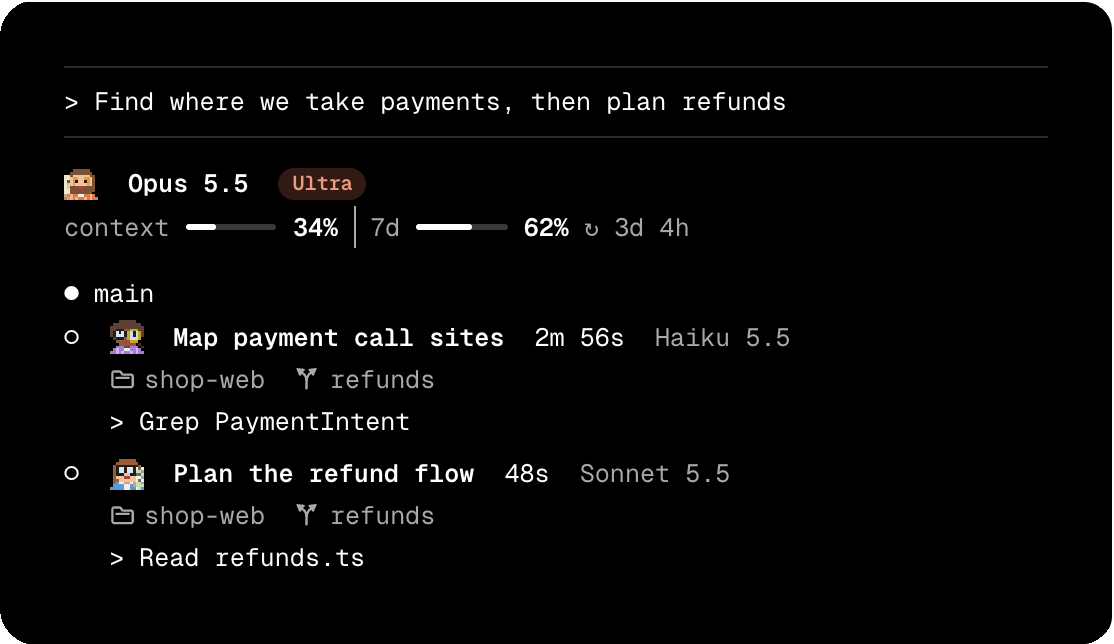
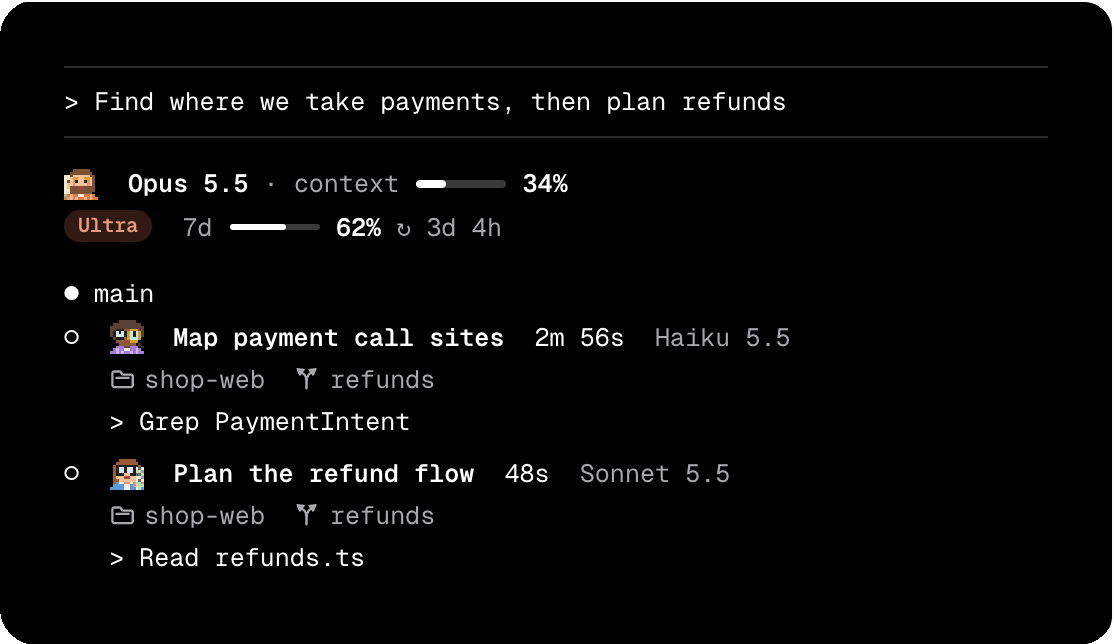
AgentValley 0.3.33

Changed region(s): [[0.061, 0.2484, 0.6104, 0.3727]]

diff --git a/Tests/AgentValleyTests/CrewLineTests.swift b/Tests/AgentValleyTests/CrewLineTests.swift
@@ -17,44 +17,58 @@ final class CrewLineTests: XCTestCase {
         plain(CrewLine.status(input, columns: columns, plan: plan, look: LeadLook(), newFont: newFont, now: now)).components(separatedBy: "\n")
     }
 
+    /// The context meter after the model, with the font's round bar or with lines.
+    func context(_ newFont: Bool) -> String {
+        " · context " + (newFont ? CrewFont.Bar.text(22, cells: 10) : "━━━━━━━━━━") + " 22% 220k/1.0m"
+    }
+
     // With the font, a plan it has a badge for wears it, as in the panel, and the bars have round ends.
     func testTheFontDrawsThePlanBadgeAndRoundBars() {
-        let top = lines(102, plan: "Ultra", newFont: true)
-        XCTAssertEqual(top[0], "\u{3F015}  Opus 5.5  " + CrewFont.Badge.ultra.text)
-        XCTAssertTrue(top[1].hasPrefix("context " + CrewFont.Bar.text(22, cells: 10) + " 22%"), top[1])
-        XCTAssertFalse(top[1].contains("━"))
+        let ultra = lines(102, plan: "Ultra", newFont: true)
+        XCTAssertEqual(ultra[0], "\u{3F015}  Opus 5.5" + context(true))
+        XCTAssertTrue(ultra[1].hasPrefix(CrewFont.Badge.ultra.text + "  5h " + CrewFont.Bar.text(6, cells: 10) + " 6%"), ultra[1])
+        XCTAssertFalse(ultra.joined().contains("━"))
         // A name the font has no badge for stays quiet text.
-        XCTAssertEqual(lines(102, plan: "Max 20x", newFont: true)[0], "\u{3F015}  Opus 5.5 · Max 20x")
+        XCTAssertTrue(lines(102, plan: "Max 20x", newFont: true)[1].hasPrefix("Max 20x  5h "))
+        // With no limits the badge stays on top, after the model.
+        input["rate_limits"] = nil
+        XCTAssertEqual(lines(102, plan: "Ultra", newFont: true), ["\u{3F015}  Opus 5.5  " + CrewFont.Badge.ultra.text + context(true)])
         input["model"] = nil
-        XCTAssertEqual(lines(102, plan: "Pro", newFont: true)[0], "\u{3F015}  " + CrewFont.Badge.pro.text)
-        input["model"] = ["display_name": "Opus 5.5"]
-        for columns in [102, 101, 91, 85, 75] { XCTAssertLessThanOrEqual(CrewLine.width(lines(columns, newFont: true)[1]), columns - 9) }
+        XCTAssertEqual(lines(102, plan: "Pro", newFont: true)[0], "\u{3F015}  " + CrewFont.Badge.pro.text + context(true))
     }
 
-    func testTheTopLineIsTheLeadModelAndPlan() {
+    // On top this session, as its card in the panel; below the plan and its limits, as the status row.
+    func testTheTopLineIsTheSessionAndTheNextThePlan() {
         let lines = lines(102)
-        XCTAssertEqual(lines[0], "\u{3F015}  Opus 5.5 · Max 20x")
-        XCTAssertEqual(lines[1], "context ━━━━━━━━━━ 22% 220k/1.0m  │  5h ━━━━━━━━━━ 6% ↻ 2h 42m  │  7d ━━━━━━━━━━ 70% ↻ 2d 15h")
+        XCTAssertEqual(lines[0], "\u{3F015}  Opus 5.5" + context(false))
+        XCTAssertEqual(lines[1], "Max 20x  5h ━━━━━━━━━━ 6% ↻ 2h 42m  │  7d ━━━━━━━━━━ 70% ↻ 2d 15h")
     }
 
-    func testNoPlanDropsTheDot() {
-        XCTAssertEqual(lines(98, plan: nil)[0], "\u{3F015}  Opus 5.5")
+    func testNoPlanLeavesTheLimits() {
+        XCTAssertEqual(lines(98, plan: nil)[1], "5h ━━━━━━━━━━ 6% ↻ 2h 42m  │  7d ━━━━━━━━━━ 70% ↻ 2d 15h")
     }
 
-    func testNoModelKeepsFaceAndPlan() {
+    func testNoModelKeepsFaceAndContext() {
         input["model"] = nil
-        XCTAssertEqual(lines(98)[0], "\u{3F015}  Max 20x")
-        XCTAssertEqual(lines(98, plan: nil)[0], "\u{3F015}")
+        XCTAssertEqual(lines(98)[0], "\u{3F015}  context ━━━━━━━━━━ 22% 220k/1.0m")
+        input["context_window"] = nil
+        XCTAssertEqual(lines(98)[0], "\u{3F015}")
+        input["rate_limits"] = nil
+        XCTAssertEqual(lines(98), ["\u{3F015}  Max 20x"])
     }
 
+    // The longer line sets the layout: the plan's, 65 cells at the widest, then 59, 55 and 51.
     func testTheLayoutShrinksToFit() {
         func bottom(_ columns: Int) -> String { lines(columns)[1] }
-        XCTAssertTrue(bottom(102).contains("  │  ") && bottom(102).contains("━━━━━━━━━━"))
-        XCTAssertTrue(bottom(101).contains(" │ ") && !bottom(101).contains("  │  ") && bottom(101).contains("━━━━━━━━ ") && !bottom(101).contains("━━━━━━━━━"))
-        XCTAssertTrue(bottom(91).contains("220k/1.0m") && bottom(91).contains("━━━━━━ ") && !bottom(91).contains("━━━━━━━"))
-        XCTAssertFalse(bottom(85).contains("220k")); XCTAssertTrue(bottom(85).contains("━━━━━━ "))
-        XCTAssertTrue(bottom(75).contains("━━━━ ") && !bottom(75).contains("━━━━━"))
-        for columns in [102, 101, 91, 85, 75] { XCTAssertLessThanOrEqual(CrewLine.width(bottom(columns)), columns - 9) }
+        XCTAssertTrue(bottom(74).contains("  │  ") && bottom(74).contains("━━━━━━━━━━"))
+        XCTAssertTrue(bottom(73).contains(" │ ") && !bottom(73).contains("  │  ") && bottom(73).contains("━━━━━━━━ ") && !bottom(73).contains("━━━━━━━━━"))
+        XCTAssertTrue(lines(67)[0].contains("220k/1.0m") && bottom(67).contains("━━━━━━ ") && !bottom(67).contains("━━━━━━━"))
+        XCTAssertFalse(lines(63)[0].contains("220k")); XCTAssertTrue(bottom(63).contains("━━━━ ") && !bottom(63).contains("━━━━━"))
+        for columns in [110, 74, 73, 68, 67, 64, 63, 60] {
+            for newFont in [false, true] {
+                XCTAssertTrue(lines(columns, newFont: newFont).allSatisfy { CrewLine.width($0) <= columns - 9 }, "\(columns)")
+            }
+        }
         XCTAssertTrue(bottom(40).contains("━━━━ ") && !bottom(40).contains("━━━━━"))
     }
 
@@ -80,9 +94,7 @@ final class CrewLineTests: XCTestCase {
 
     func testMissingPiecesAreSkipped() {
         input["rate_limits"] = nil
-        let ctxOnly = lines(98)
-        XCTAssertEqual(ctxOnly.count, 2)
-        XCTAssertTrue(ctxOnly[1].hasPrefix("context") && !ctxOnly[1].contains("5h") && !ctxOnly[1].contains("7d"))
+        XCTAssertEqual(lines(98), ["\u{3F015}  Opus 5.5 · Max 20x" + context(false)])
         let empty = plain(CrewLine.status([:], columns: 98, plan: nil, look: LeadLook(), now: now))
         XCTAssertEqual(empty, "\u{3F015}")
     }
@@ -307,34 +319,33 @@ final class CrewLineTests: XCTestCase {
 
     // A session the app has given no lead yet: nobody has sat down, and the bar's mug waits.
     func testNoLookShowsTheMugOnStandby() {
-        XCTAssertEqual(top(look: nil), CrewFont.Picture.mug.character + "  Opus 5.5 · Max 20x · On standby")
-        XCTAssertEqual(top(look: nil, plan: nil), CrewFont.Picture.mug.character + "  Opus 5.5 · On standby")
+        XCTAssertEqual(top(look: nil), CrewFont.Picture.mug.character + "  Opus 5.5 · On standby" + context(true))
         input["model"] = nil
-        XCTAssertEqual(top(look: nil, plan: nil), CrewFont.Picture.mug.character + "  On standby")
+        XCTAssertEqual(top(look: nil, plan: nil), CrewFont.Picture.mug.character + "  On standby" + context(true))
     }
 
     // A limit run out sends the crew off, as on the bar: fishing for the 5 hours, the van for the week.
     func testARunOutLimitSendsTheCrewOff() {
         input["rate_limits"] = ["five_hour": ["used_percentage": 100.0, "resets_at": now.timeIntervalSince1970 + 600],
                                 "seven_day": ["used_percentage": 70.0, "resets_at": now.timeIntervalSince1970 + 226_830]]
-        XCTAssertEqual(top(), CrewFont.Picture.fish.character + "  Opus 5.5 · Max 20x · Gone fishin\u{2019}")
-        XCTAssertEqual(top(look: nil), CrewFont.Picture.fish.character + "  Opus 5.5 · Max 20x · Gone fishin\u{2019}")
+        XCTAssertEqual(top(), CrewFont.Picture.fish.character + "  Opus 5.5 · Gone fishin\u{2019}" + context(true))
+        XCTAssertEqual(top(look: nil), CrewFont.Picture.fish.character + "  Opus 5.5 · Gone fishin\u{2019}" + context(true))
         // Both out: the one back last.
         input["rate_limits"] = ["five_hour": ["used_percentage": 100.0, "resets_at": now.timeIntervalSince1970 + 600],
                                 "seven_day": ["used_percentage": 100.0, "resets_at": now.timeIntervalSince1970 + 226_830]]
-        XCTAssertEqual(top(), CrewFont.Picture.van.character + "  Opus 5.5 · Max 20x · On vacation")
+        XCTAssertEqual(top(), CrewFont.Picture.van.character + "  Opus 5.5 · On vacation" + context(true))
         // Someone works on past the limit: the face stays.
-        XCTAssertEqual(top(atWork: true), "\u{3F015}  Opus 5.5 · Max 20x")
+        XCTAssertEqual(top(atWork: true), "\u{3F015}  Opus 5.5" + context(true))
         // Past its reset it is back, whatever the last numbers said.
         input["rate_limits"] = ["five_hour": ["used_percentage": 100.0, "resets_at": now.timeIntervalSince1970 - 1]]
-        XCTAssertEqual(top(), "\u{3F015}  Opus 5.5 · Max 20x")
+        XCTAssertEqual(top(), "\u{3F015}  Opus 5.5" + context(true))
     }
 
     // A terminal that has not seen the new font gets faces only, Sunny where there is no look.
     func testAnOldFontGetsFacesAndNoWords() {
-        XCTAssertEqual(top(look: nil, newFont: false), "\u{3F015}  Opus 5.5 · Max 20x")
+        XCTAssertEqual(top(look: nil, newFont: false), "\u{3F015}  Opus 5.5" + context(false))
         input["rate_limits"] = ["seven_day": ["used_percentage": 100.0, "resets_at": now.timeIntervalSince1970 + 600]]
-        XCTAssertEqual(top(look: LeadLook(face: 3, hair: 5, shirt: 6), newFont: false), "\u{3F0BC}  Opus 5.5 · Max 20x")
+        XCTAssertEqual(top(look: LeadLook(face: 3, hair: 5, shirt: 6), newFont: false), "\u{3F0BC}  Opus 5.5" + context(false))
     }
 
     // The lead and each working sub-agent hold what the notch has them hold.

diff --git a/Sources/AgentValley/CrewLine.swift b/Sources/AgentValley/CrewLine.swift
@@ -136,46 +136,52 @@ enum CrewLine {
                 picture = (.mug, "On standby")
             }
         }
-        var top = picture?.0.character ?? CrewFont.character(.lead(look ?? LeadLook()), .working, holding: holding)
-        // The plan on the panel's badge where the font has one for it; else as quiet text. The
-        // picture's word goes after it, as quiet.
+        let face = picture?.0.character ?? CrewFont.character(.lead(look ?? LeadLook()), .working, holding: holding)
+        // The plan on the panel's badge where the font has one for it; else as quiet text.
         let badge = newFont ? plan.flatMap(CrewFont.Badge.init(plan:)) : nil
-        let after = [badge == nil ? plan.flatMap { $0.isEmpty ? nil : $0 } : nil, picture?.1].compactMap { $0 }.joined(separator: " · ")
-        if !model.isEmpty { top += "  " + Style.bold + model + Style.reset }
-        if let badge { top += "  " + badge.text }
-        if !after.isEmpty { top += Style.faint + (model.isEmpty && badge == nil ? "  " : " · ") + after + Style.reset }
+        let planText = badge?.text ?? plan.flatMap { $0.isEmpty ? nil : Style.faint + $0 + Style.reset }
+        let limits = [("five_hour", "5h"), ("seven_day", "7d")].compactMap { key, name in limit(input, key).map { (name, $0) } }
+        let context = (input["context_window"] as? [String: Any]).flatMap { window in
+            number(window["used_percentage"]).map { (used: $0, size: number(window["context_window_size"]) ?? 0) }
+        }
 
+        // Two lines, as the panel has them: this session on top, as its card (face, model,
+        // context); below, the plan and its limits, as the status row. With no limits the plan
+        // stays on top.
         let room = columns - 9
         let layouts: [(bar: Int, tokens: Bool, gap: String)] = [
             (10, true, "  │  "), (8, true, " │ "), (6, true, " │ "), (6, false, " │ "), (4, false, " │ "),
         ]
-        var bottom = ""
+        var lines: [String] = []
         for layout in layouts {
-            bottom = meters(input, bar: layout.bar, tokens: layout.tokens, gap: layout.gap, round: newFont, now: now)
-            if width(bottom) <= room { break }
+            var top = face, first = true
+            func add(_ text: String, dot: Bool = true) {
+                top += first || !dot ? "  " : Style.faint + " · " + Style.reset
+                top += text
+                first = false
+            }
+            if !model.isEmpty { add(Style.bold + model + Style.reset) }
+            if limits.isEmpty, let planText { add(planText, dot: badge == nil) }
+            if let word = picture?.1 { add(Style.faint + word + Style.reset) }
+            if let context {
+                let tail = layout.tokens && context.size > 0 ? "\(short(context.used / 100 * context.size))/\(short(context.size))" : ""
+                add(meter("context", PlanLimit(usedPercent: context.used, resetsAt: nil), cells: layout.bar, tail: tail, round: newFont, now: now))
+            }
+            lines = [top]
+            if !limits.isEmpty {
+                let meters = limits.map { name, limit in
+                    meter(name, limit, cells: layout.bar, tail: limit.resetLabel(now: now).map { "↻ " + $0 } ?? "", round: newFont, now: now)
+                }
+                lines.append((planText.map { $0 + "  " } ?? "") + meters.joined(separator: Style.faint + layout.gap + Style.reset))
+            }
+            if lines.allSatisfy({ width($0) <= room }) { break }
         }
-        return bottom.isEmpty ? top : top + "\n" + bottom
+        return lines.joined(separator: "\n")
     }
 
     private static func number(_ value: Any?) -> Double? {
         guard let value = (value as? NSNumber)?.doubleValue, value.isFinite, abs(value) < 1e12 else { return nil }
         return value
-    }
-
-    private static func meters(_ input: [String: Any], bar cells: Int, tokens: Bool, gap: String, round: Bool, now: Date) -> String {
-        var parts: [String] = []
-        let context = input["context_window"] as? [String: Any]
-        if let used = number(context?["used_percentage"]) {
-            let size = number(context?["context_window_size"]) ?? 0
-            let tail = tokens && size > 0 ? "\(short(used / 100 * size))/\(short(size))" : ""
-            parts.append(meter("context", PlanLimit(usedPercent: used, resetsAt: nil), cells: cells, tail: tail, round: round, now: now))
-        }
-        for (key, name) in [("five_hour", "5h"), ("seven_day", "7d")] {
-            guard let limit = limit(input, key) else { continue }
-            let tail = limit.resetLabel(now: now).map { "↻ " + $0 } ?? ""
-            parts.append(meter(name, limit, cells: cells, tail: tail, round: round, now: now))
-        }
-        return parts.joined(separator: Style.faint + gap + Style.reset)
     }
 
     /// One plan window of what Claude Code hands the status line: `five_hour` or `seven_day`.

diff --git a/site/components/sections/terminal.tsx b/site/components/sections/terminal.tsx
@@ -37,15 +37,12 @@ export function Terminal() {
         <figure
           className="cterm"
           role="img"
-          aria-label="Claude Code in a terminal. Under the prompt, the status line shows Sunny's face, Opus 5.5 and an orange Ultra badge, then bars for context and the weekly limit. Below it, two sub-agent rows, each with a little face, its task, time, model, folder, branch and current step."
+          aria-label="Claude Code in a terminal. Under the prompt, the status line shows Sunny's face, Opus 5.5 and a bar for context, then an orange Ultra badge and a bar for the weekly limit. Below it, two sub-agent rows, each with a little face, its task, time, model, folder, branch and current step."
         >
           <div aria-hidden="true">
             <p className="t-prompt">&gt; Find where we take payments, then plan refunds</p>
-            <p><Mascot who="guru" pose="still" holds="calling" /><b>Opus 5.5</b><span className="t-plan">Ultra</span></p>
-            <p className="t-meters">
-              <span><span className="t-dim">context</span> <Bar percent={34} /> <b>34%</b></span>
-              <span><span className="t-dim">7d</span> <Bar percent={62} /> <b>62%</b> <span className="t-dim">↻ 3d 4h</span></span>
-            </p>
+            <p><Mascot who="guru" pose="still" holds="calling" /><span><b>Opus 5.5</b> <span className="t-dim">· context</span> <Bar percent={34} /> <b>34%</b></span></p>
+            <p className="t-meters"><span className="t-plan">Ultra</span><span><span className="t-dim">7d</span> <Bar percent={62} /> <b>62%</b> <span className="t-dim">↻ 3d 4h</span></span></p>
             <p className="t-main">● main</p>
             <Row who="afro" holds="searching" task="Map payment call sites" time="2m 56s" model="Haiku 5.5" step="Grep PaymentIntent" />
             <Row who="coder" holds="reading" task="Plan the refund flow" time="48s" model="Sonnet 5.5" step="Read refunds.ts" />

diff --git a/Tests/AgentValleyTests/CrewSetupTests.swift b/Tests/AgentValleyTests/CrewSetupTests.swift
@@ -439,9 +439,11 @@ final class CrewSetupTests: XCTestCase {
         let lead = try run(["status"], input: input, columns: "98")
         XCTAssertTrue(lead.lines.first?.hasPrefix(CrewFont.character(.lead(LeadLook(face: 1, hair: 2, shirt: 3)), .working)) == true, "\(lead.lines)")
 
-        // The plan, from the account in Claude Code's own file.
+        // The plan, from the account in Claude Code's own file, leads the limits on the second line.
         try write(#"{"projects": {}, "oauthAccount": {"organizationType": "claude_pro"}}"#, to: ".claude.json")
-        XCTAssertTrue(try run(["status"], input: input, columns: "98").lines.first?.contains(" · Pro") == true)
+        let plan = try run(["status"], input: input, columns: "98").lines
+            .map { $0.replacingOccurrences(of: "\u{1B}\\[[0-9;]*m", with: "", options: .regularExpression) }
+        XCTAssertTrue(plan.last?.hasPrefix("Pro  5h ") == true, "\(plan)")
 
         let garbage = try run(["status"], input: "garbage")
         XCTAssertEqual(garbage.status, 0)

diff --git a/site/app/set-pieces.css b/site/app/set-pieces.css
@@ -260,15 +260,12 @@ html{scroll-padding-top:80px}
 .t-bar i{display:block;height:100%;border-radius:1em;background:currentColor}
 .t-plan{padding:.1em .7em;border-radius:1em;font-size:.8em;font-weight:600;line-height:1.4;color:#ee9a7d;background:rgb(217 119 87 / .22)}
 .t-meters>span+span{margin-left:1ch;padding-left:1ch;border-left:1px solid var(--app-dim)}
+/* The plan's badge leads the limits, two cells before them. */
+.t-meters>.t-plan+span{margin-left:2ch;padding-left:0;border-left:0}
 .t-row p+p{padding-left:3ch}
 /* The panel's folder and branch marks, as the font draws them: the gap to the name inside the mark. */
 .t-row .i{margin-right:.4em}
 .t-row+.t-row{margin-top:.3em}
-/* Too narrow for the meters side by side: one under another. */
-@container (max-width:440px){
-  .cterm .t-meters{display:grid}
-  .t-meters>span+span{margin-left:0;padding-left:0;border-left:0}
-}
 
 
 /* History as the app draws it, with made-up numbers on the reader's own calendar to click through */

diff --git a/README.md b/README.md
@@ -87,7 +87,7 @@ Open History from the chart button at the top of the panel. Pick a day, a week o
 
 Claude Code's status line gets the face of whoever runs the session, with the model, your plan and your limits. Each sub-agent row under the prompt gets its own face, its model, the step it's on, and the notch's own marks for its folder and branch. Send three or more of us and we each take one line, so nobody drops off the bottom. We hold the same things there as in the notch, but we keep still. Until your first prompt only a coffee waits there, on standby, and when a limit runs out we go fishing, or take the van. One command from the app's Claude Code settings sets it up. With the app closed your limits still show, and the coffee waits. We travel as a font, and we've been seen in Terminal, iTerm2, Ghostty and Cursor.
 
-<p align="center"><img src="docs/terminal.png" alt="Claude Code in a terminal. Under the prompt, the status line shows Sunny's face, Opus 5.5 and an orange Ultra badge, then bars for context and the weekly limit. Below it, two sub-agent rows, each with a little face, its task, time, model, folder, branch and current step." width="544"></p>
+<p align="center"><img src="docs/terminal.png" alt="Claude Code in a terminal. Under the prompt, the status line shows Sunny's face, Opus 5.5 and a bar for context, then an orange Ultra badge and a bar for the weekly limit. Below it, two sub-agent rows, each with a little face, its task, time, model, folder, branch and current step." width="544"></p>
 
 ### Also in the panel
 

diff --git a/CHANGELOG.md b/CHANGELOG.md
@@ -1,5 +1,9 @@
 # Changelog
 
+## 0.3.33 — 2026-11-01
+
+- The status line in your terminal has two rows now, like the panel. The top one is this session: its face, the model and how full the context is. The one under it is your plan: its orange badge, then its limits.
+
 ## 0.3.32 — 2026-11-01
 
 - When a session ends its turn with a shell or a monitor still running in the background, its card says so again, "1 shell, 1 monitor running", instead of "idle". Claude Code 2.1.312 and later mark such a session in a way the app did not read, so it lost track of the session: its background jobs and the jump to its terminal went missing.
